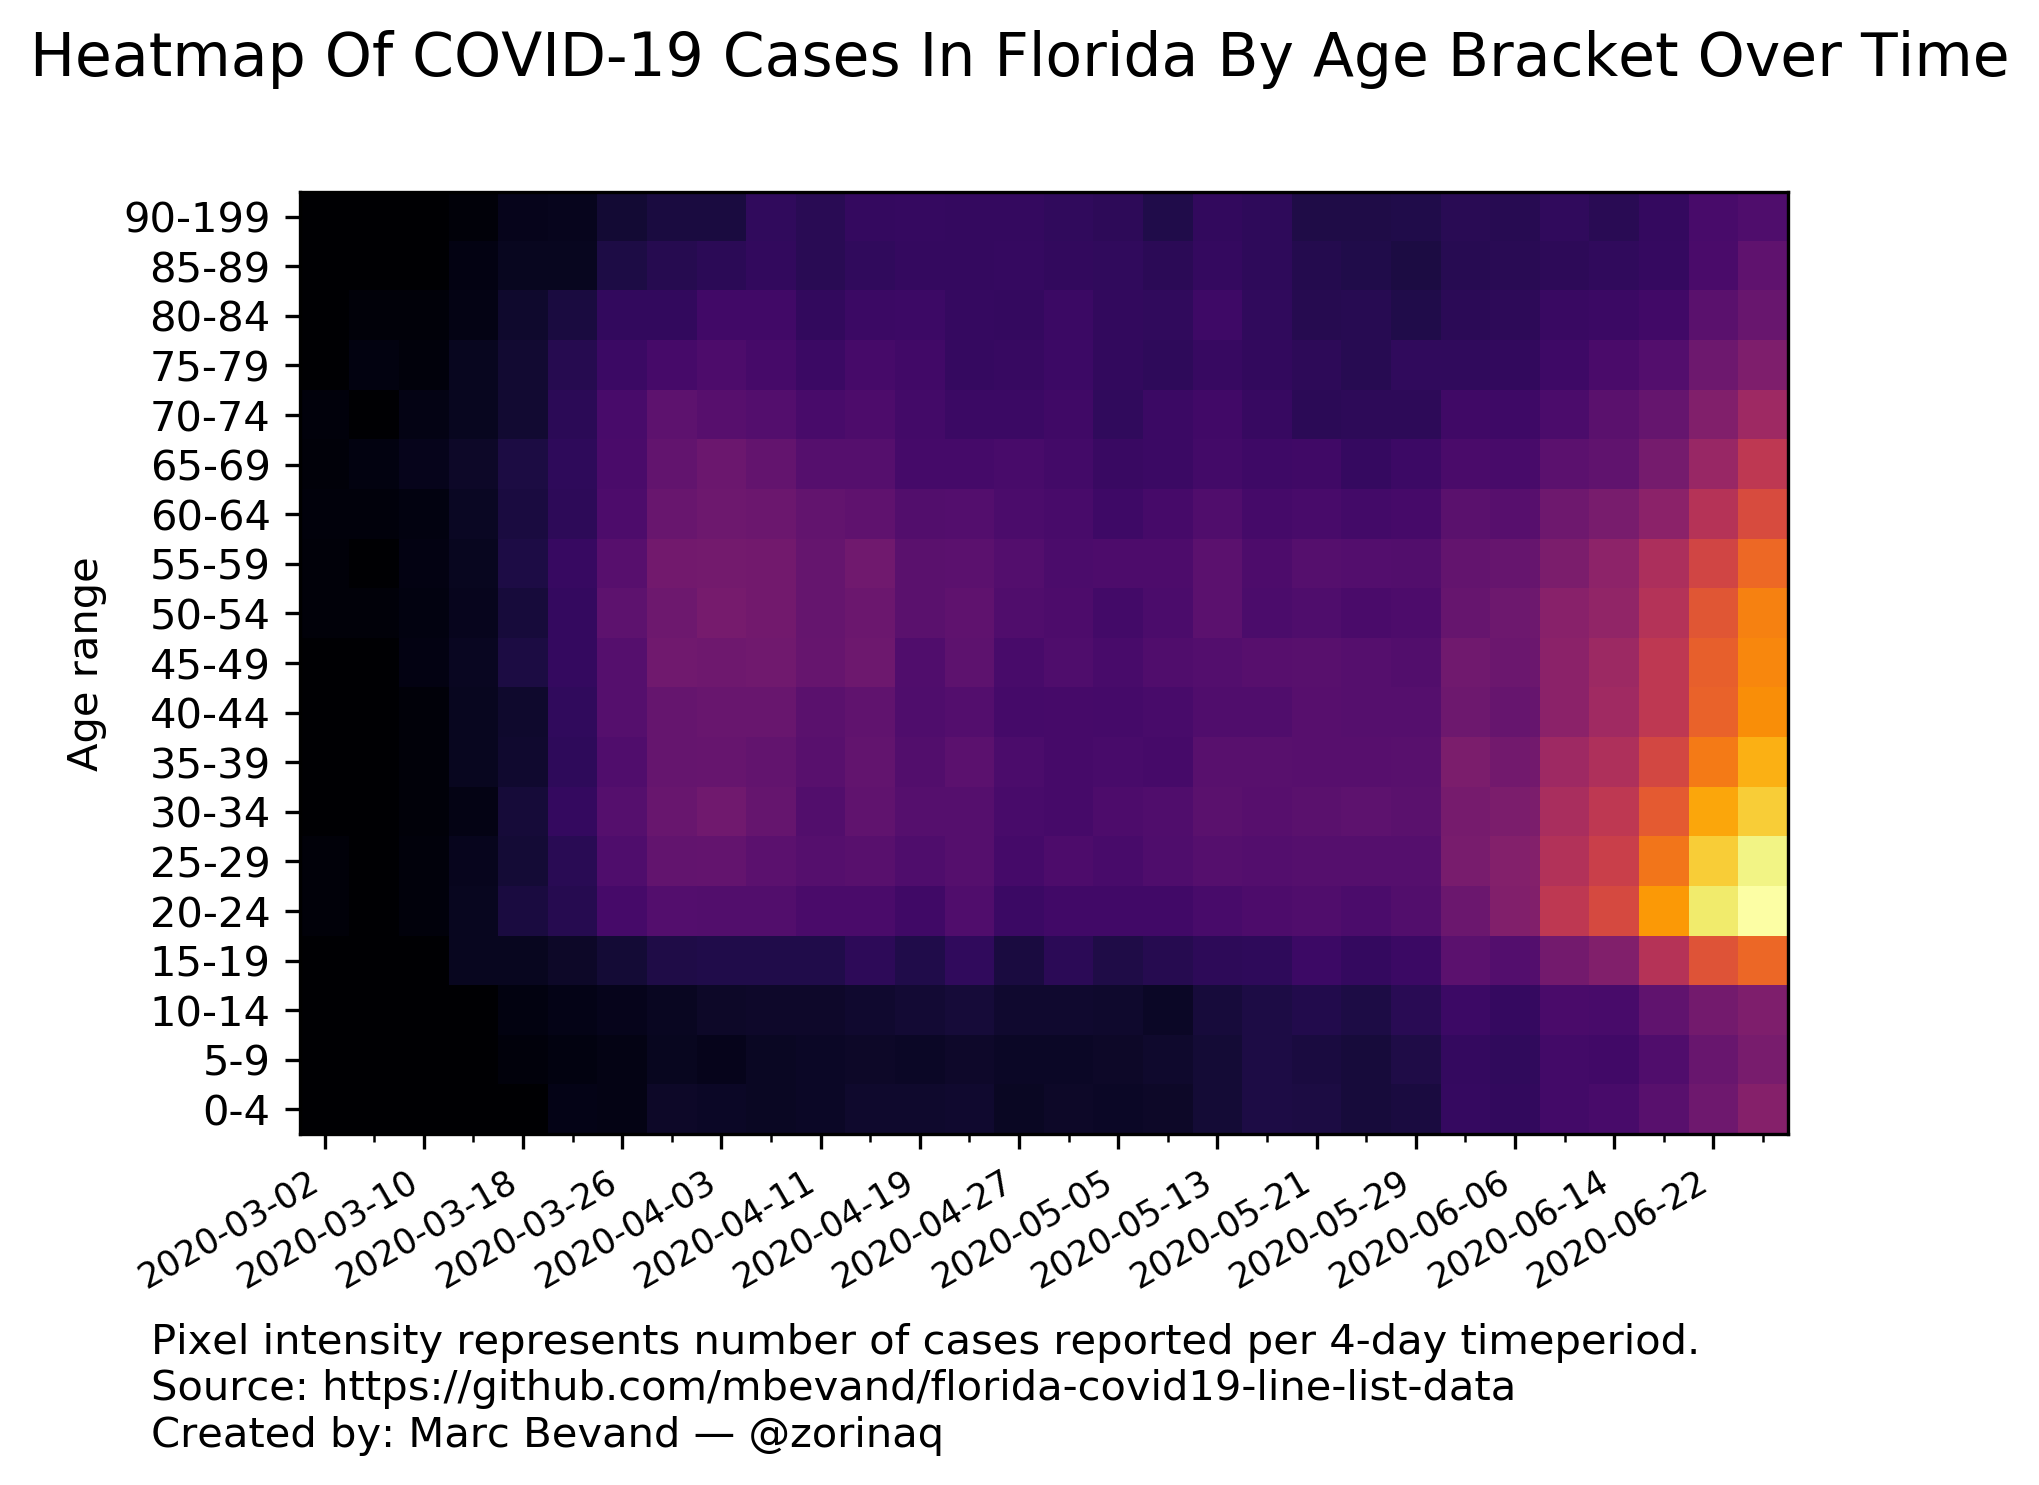
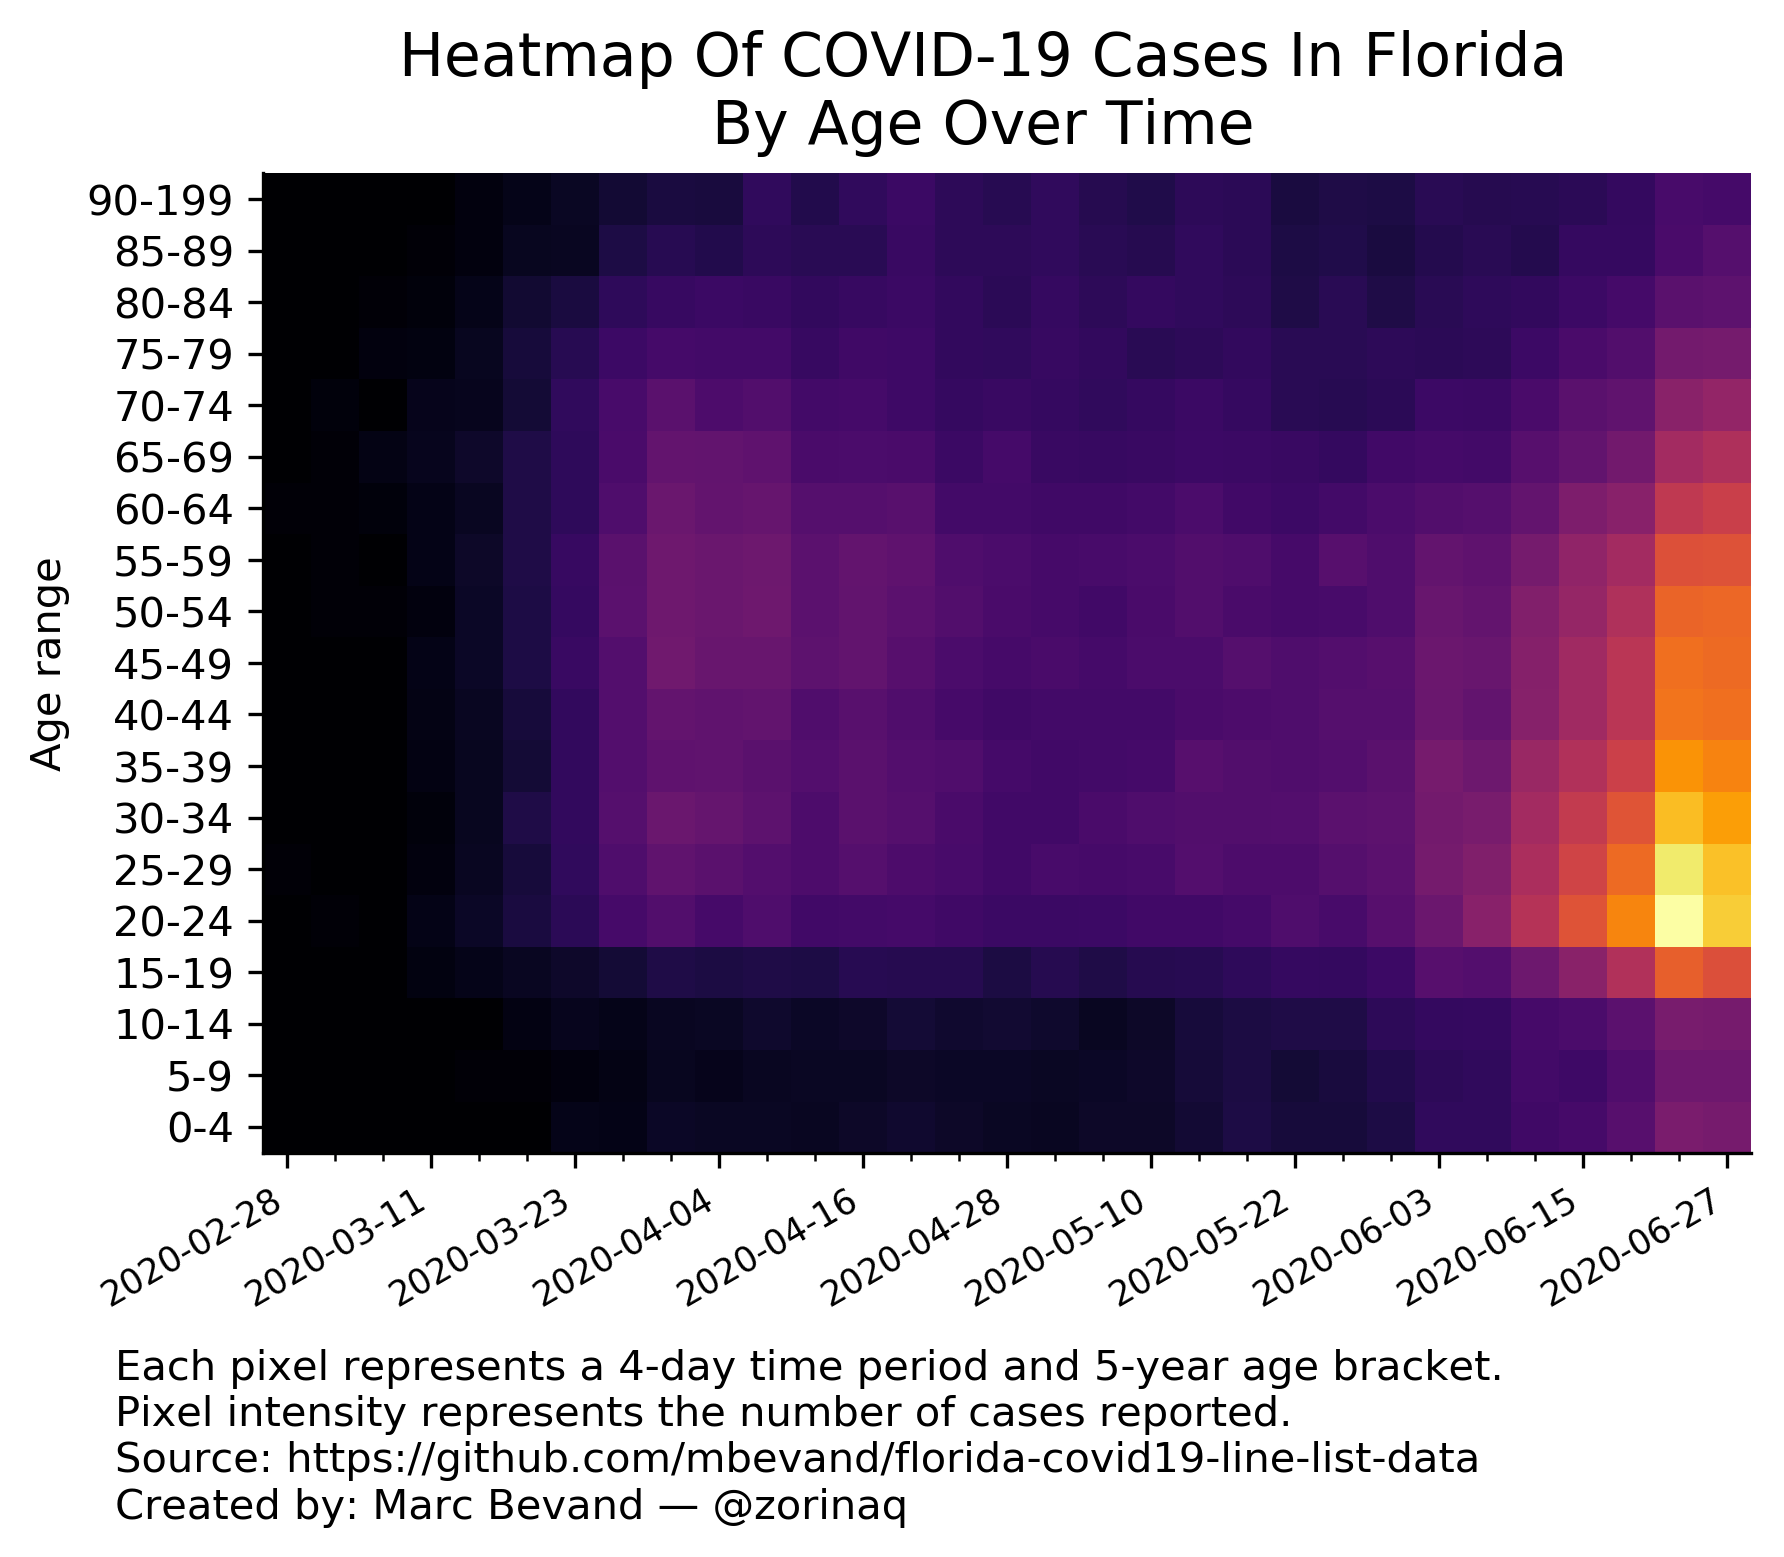
minor cosmetic updates

diff --git a/process.py b/process.py
@@ -76,7 +76,7 @@ def gen_heatmap(cases_per_bracket, filename, comment, sqrt):
         transform=ax.transAxes,
         verticalalignment="top",
     )
-    fig.suptitle("Heatmap Of COVID-19 Cases In Florida By Age Over Time")
+    fig.suptitle("Heatmap Of COVID-19 Cases In Florida\nBy Age Over Time")
     ax.imshow(a, cmap="inferno", origin="lower", interpolation="nearest", aspect="auto")
     plt.savefig(f"{filename}.png", bbox_inches="tight")
 
